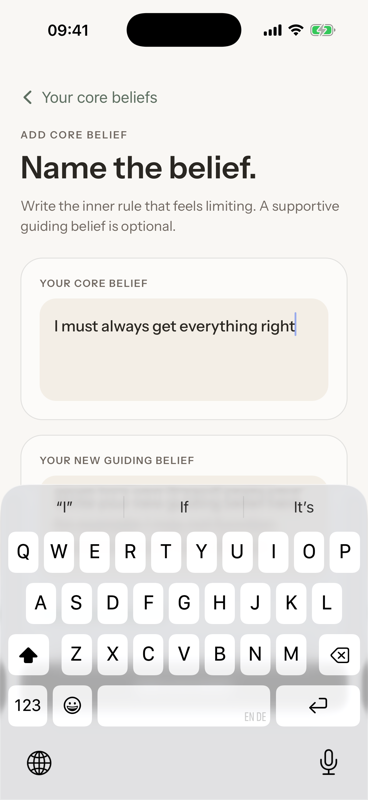
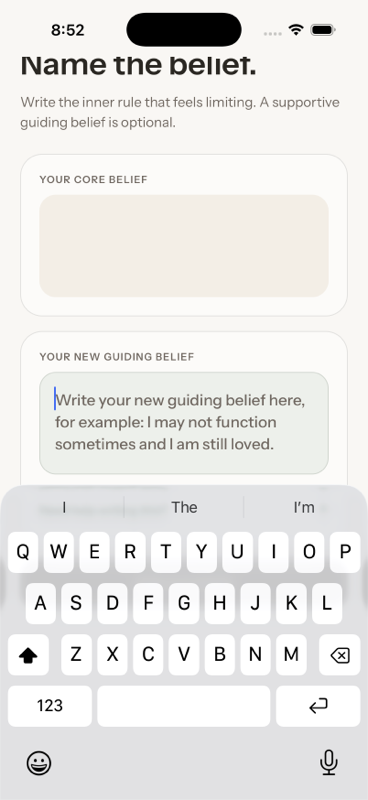
test: refresh Leitsatz map screenshots

diff --git a/.expo-map/README.md b/.expo-map/README.md
@@ -16,7 +16,7 @@ This directory is a committed `expo-map` result set. Its static route graph was 
 
 The 2026-09-04 implementation aligns positive Leitsatz content on the guiding-belief editor, belief library, belief-library editor, and all Leitsatz reminder entry states. The static graph still reconciles to 18 routes and 2 layouts, and the affected component tests cover the green semantic surface, neutral explanatory content, crossed-out released Leitsatz, and focused-notification state.
 
-The affected runtime captures are deliberately marked `needs-recapture` in `capture-status.json`. They must be replayed only on the explicitly selected `Youmotion Expo Map` simulator with bundle id `com.youmotion.mobile`. Never use automatic simulator selection or a simulator belonging to another app. Until those captures are replaced and visually inspected, `Youmotion-2026-08-21.appmap` remains the latest complete bundle; do not package the stale images under a newer date.
+The guiding-belief editor, belief-library editor (default and keyboard-open), reminder offer, and full-preview variants were re-captured on an isolated simulator named `Youmotion Leitsatz QA` with bundle id `com.youmotion.mobile`. The populated library remains tied to the committed 133-moment/15-belief archive fixture and still needs re-capture, as do the focused-notification and success-origin schedule-picker variants. Never use automatic simulator selection or a simulator belonging to another app. Until those captures are replaced and visually inspected, `Youmotion-2026-08-21.appmap` remains the latest complete bundle; do not package the remaining stale images under a newer date.
 
 ## Emotion check-in reminder refresh
 
